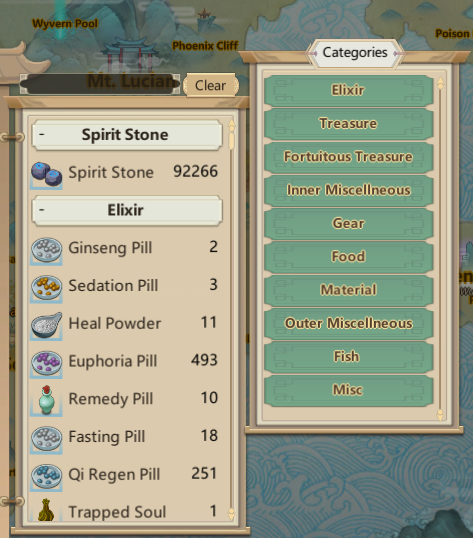
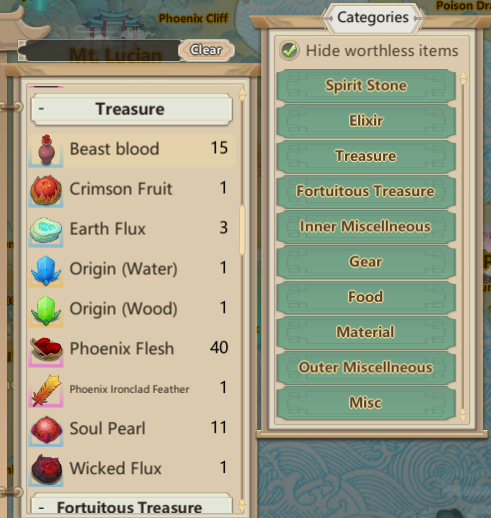
Update readme, add changelog, version bump

diff --git a/Source/YaogUI/Properties/AssemblyInfo.cs b/Source/YaogUI/Properties/AssemblyInfo.cs
@@ -31,5 +31,5 @@ using System.Runtime.InteropServices;
 // You can specify all the values or you can default the Build and Revision Numbers
 // by using the '*' as shown below:
 // [assembly: AssemblyVersion("1.0.*")]
-[assembly: AssemblyVersion("1.0.2.0")]
-[assembly: AssemblyFileVersion("1.0.2.0")]
+[assembly: AssemblyVersion("1.0.3.0")]
+[assembly: AssemblyFileVersion("1.0.3.0")]

diff --git a/README.md b/README.md
@@ -4,23 +4,34 @@ A UI mod for Amazing Cultivation Simulator. Currently in very early stages of de
 
 This is mostly intended for the english version of the game, but most of the features _should_ work in the chinese version too.
 
+Releases can be downloaded from [NexusMods](https://www.nexusmods.com/amazingcultivationsimulator/mods/9/)
+
 # Features
 
- - Ability to search when crafting items. The talisman list also has a new look
- - Ability to search user items when trading
-   - Category bookmarks have also been added to make it easier to jump between item categories
- - When a vessel dies, it name changes to '[Owner]'s Vessel' to make it easier to identify who owns it
- - 'X : Hurt' and 'X : injury deteriorating' messages get cleaned if the affected pawn get healed
-   - Experimental - Any feedback appreciated
+### Trade Window
+- Ability to search user items
+- Category bookmarks to make it easier to jump between item categories
+- Sold items are sorted alphabetically
+- Added a checkbox to exclude worthless items from the list
+  - By worthless I mean items that have a trade value of 0, not useless.
 
-### Development
+### Talisman Drawing Window
+- Ability to search when crafting item
+- Talisman list also has a new look
+
+### Other
+- When a vessel dies, it name changes to '[Owner]'s Vessel' to make it easier to identify who owns it
+- 'X : Hurt' and 'X : injury deteriorating' messages get cleaned if the affected pawn get healed
+  - Experimental - Any feedback appreciated
+
+# Development
 
 The `Source` folder (hopefully) contains everything related to this mod. You can safely remove that folder if you are not interested in development.
  
 - `Source\YaogUI` contains the Visual Studio solution and the code for the Harmony patches
 - `Source\FairyProject` contains any new UI elements using [Fairy GUI](https://fairygui.com)
 
-### TODO
+# TODO
 
 This is a non-exhaustive list that I plan to work on. I can't give any promises for any of those since I'm not sure how to do most of those. I would appreciate any tips or PRs!
 

diff --git a/CHANGELOG.md b/CHANGELOG.md
@@ -1,0 +1,10 @@
+## v0.3 (03/09/2022)
+ - Added `ignoreWorthlessItems` checkbox to the trade window.
+ - Make sure Harmony patches are only applied once
+   - This should fix an issue where the search functionality of the trad window would not work after reloading
+- Sort sold items alphabetically
+- Add ability to search the items sold by the trader too
+- Replace clearable search fields with custom component
+  - Now also generate component code
+- Remove some useless components from the FairyGUI project
+- Added changelog :) 
